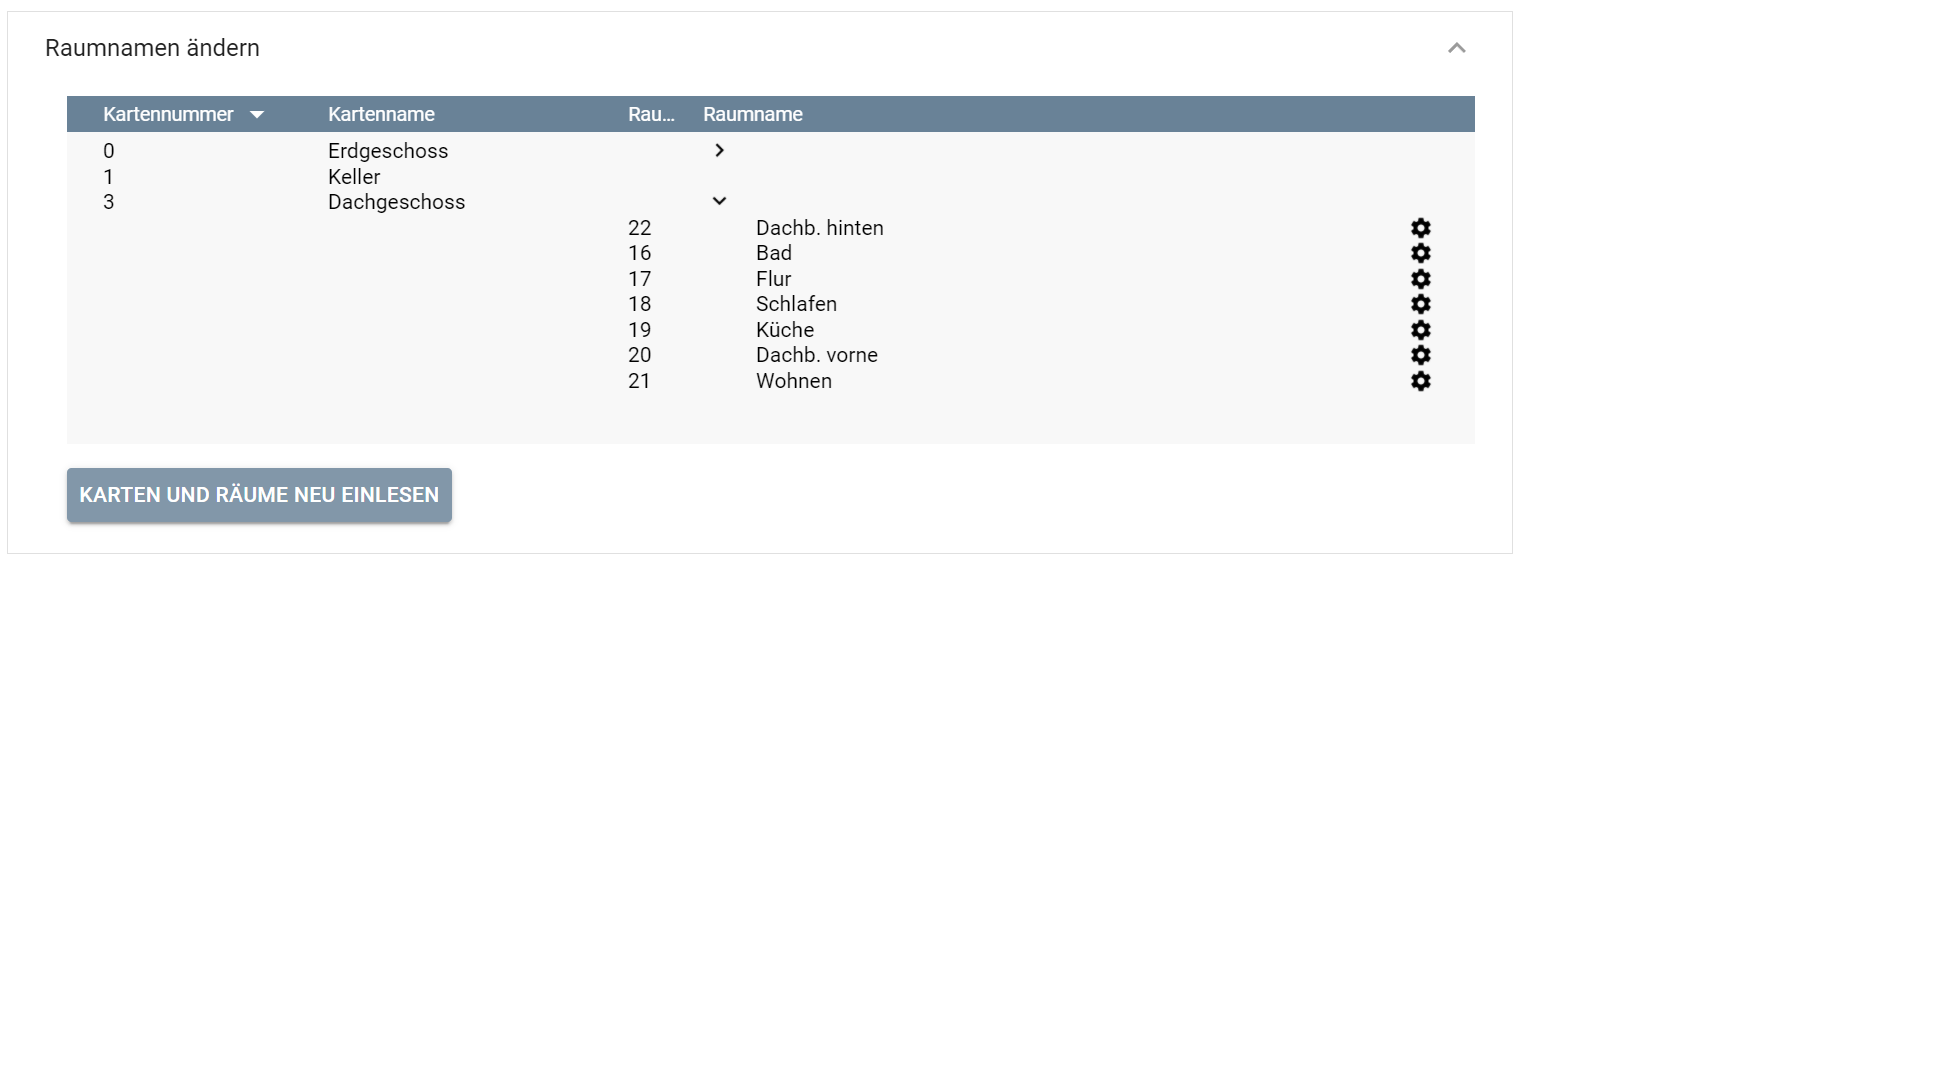
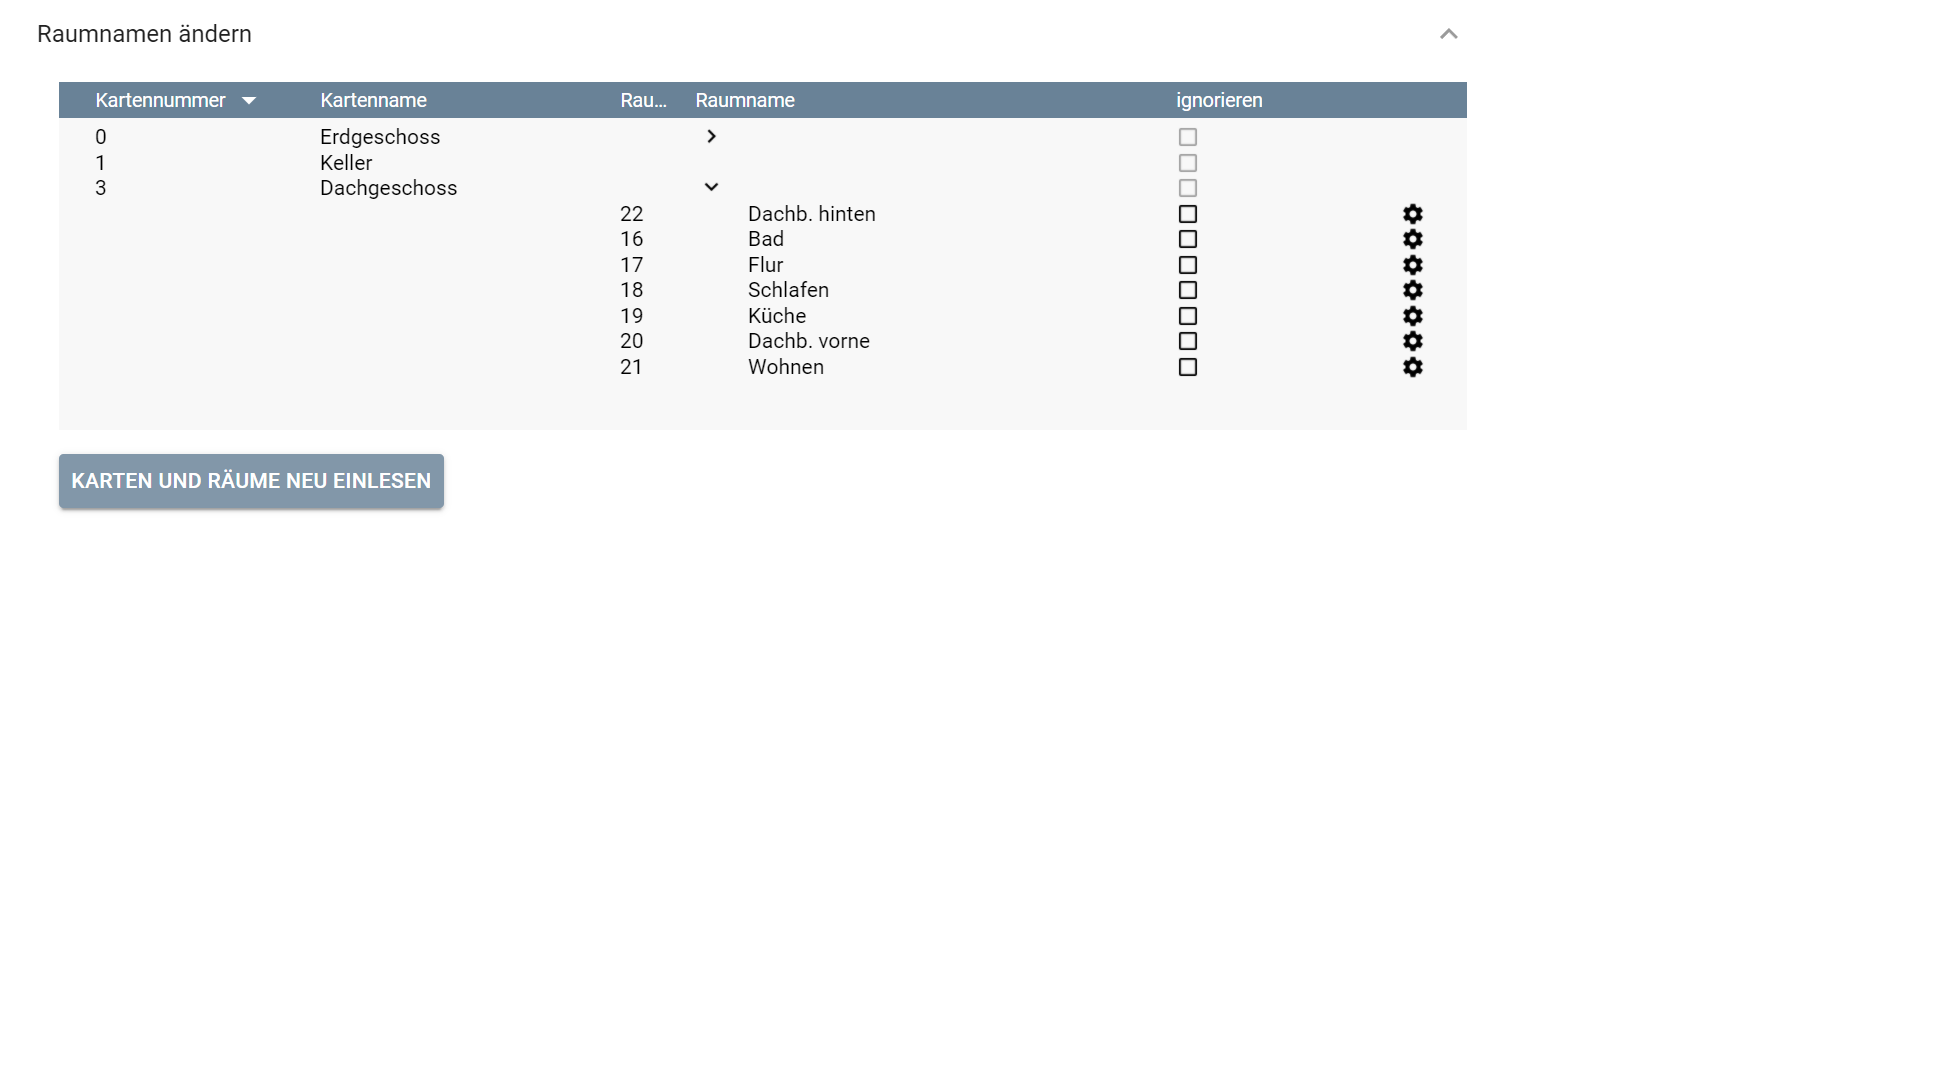
2.1 build 32 neu: - der Server von dem der Token geholt wird, kann nun eingestellt werden (bislang fix 'de') - rudimentäre Unterstützung des S1

diff --git a/Roborock Robot/module.php b/Roborock Robot/module.php
@@ -58,6 +58,7 @@ class Roborock extends IPSModule
     private const PROPERTY_REMOTE               = 'remote';
     private const PROPERTY_UPDATE_INTERVAL      = 'UpdateInterval';
     private const PROPERTY_CLEANING_ORDER       = 'CleaningOrder';
+    private const PROPERTY_SERVER               = 'Server';
 
     private const PROFILE_COMMAND         = 'Roborock.Command';
     private const PROFILE_ERRORCODE       = 'Roborock.Errorcode';
@@ -265,6 +266,8 @@ class Roborock extends IPSModule
 
         $this->RegisterPropertyString(self::PROPERTY_XIAOMI_USER, '');
         $this->RegisterPropertyString(self::PROPERTY_XIAOMI_PASSWORD, '');
+
+        $this->RegisterPropertyString(self::PROPERTY_SERVER, 'de');
 
         // register update timer
         $this->RegisterPropertyInteger(self::PROPERTY_UPDATE_INTERVAL, 60);
@@ -2361,13 +2364,6 @@ class Roborock extends IPSModule
                 'caption' => 'Password'
             ],
             [
-                'name'    => self::PROPERTY_UPDATE_INTERVAL,
-                'type'    => 'NumberSpinner',
-                'caption' => 'Update Interval Roborock',
-                'suffix'  => 'Seconds',
-                'minimum' => 0
-            ],
-            [
                 'type'    => 'ExpansionPanel',
                 'caption' => 'Optional Status Variables',
                 'items'   => [
@@ -2693,6 +2689,24 @@ class Roborock extends IPSModule
                     ]
                 ]
             ],
+            [
+                'type'    => 'ExpansionPanel',
+                'caption' => 'Expert Parameters',
+                'items'   => [
+                    [
+                        'name'    => self::PROPERTY_UPDATE_INTERVAL,
+                        'type'    => 'NumberSpinner',
+                        'caption' => 'Update Interval Roborock',
+                        'suffix'  => 'Seconds',
+                        'minimum' => 0
+                    ],
+                    [
+                        'name'    => self::PROPERTY_SERVER,
+                        'type'    => 'ValidationTextBox',
+                        'caption' => 'Server'
+                    ]
+                ]
+            ],
         ];
     }
 
@@ -2988,7 +3002,7 @@ class Roborock extends IPSModule
                     self::FF_COL_ROOMID            => $room['roomID'],
                     self::FF_COL_ROOMTEXTREFERENCE => $room['referenceID'],
                     self::FF_COL_ROOMNAME          => $RoomNames[$room['referenceID']] ?? $room['roomName'],
-                    self::FF_COL_IGNORE_ROOM       => $room['IgnoreRoom']??false,
+                    self::FF_COL_IGNORE_ROOM       => $room['IgnoreRoom'] ?? false,
                     'editable'                     => true
                 ];
             }
@@ -3443,7 +3457,10 @@ EOF;
             return [];
         }
 
-        $server = 'de';
+        $server = $this->ReadPropertyString(self::PROPERTY_SERVER);
+        if ($server !== ''){
+            $server .= '.';
+        }
 
         $headers = [
             'Content-Type: application/x-www-form-urlencoded',
@@ -3466,7 +3483,7 @@ EOF;
         $body = $this->generateSignature($loginAccountData['ssecurity'], $params, $path);
         $body = http_build_query($body);
 
-        $url = 'https://' . $server . '.api.io.mi.com/app' . $path;
+        $url = 'https://' . $server . 'api.io.mi.com/app' . $path;
         $ch  = curl_init($url);
 
         curl_setopt($ch, CURLOPT_RETURNTRANSFER, true);
@@ -3600,7 +3617,8 @@ EOF;
         }
 
         if ($this->ReadPropertyBoolean(self::PROPERTY_CLEANING_ORDER)) {
-            $this->UpdateAttributeMapsListWithRooms($rooms);
+            $this->UpdateAttributeMapsListWithRooms([]);
+            //$this->UpdateAttributeMapsListWithRooms($rooms);
         }
 
         return $data;

diff --git a/Roborock Robot/roborock_vacuum.php b/Roborock Robot/roborock_vacuum.php
@@ -57,12 +57,20 @@ class Fanpower extends stdClass
     public const GENTLE   = 'Gentle';
     public const SILENT   = 'Silent';
     public const STANDARD = 'Standard';
+    public const MEDIUM = 'Medium';
     public const TURBO    = 'Turbo';
     public const MAXIMUM  = 'Max.';
 
     public const V1 = [
         self::SILENT   => 38,
         self::STANDARD => 60,
+    ];
+
+    public const S1 = [
+        self::SILENT   => 101, //leise
+        self::STANDARD => 102, //normal
+        self::MEDIUM    => 103, //medium
+        self::TURBO  => 104, //Turbo
     ];
 
     public const V2 = [
@@ -102,6 +110,7 @@ class roborock_vacuum
 
     public const DEVICELIST = [
         'roborock.vacuum'     => 'Roborock Generic Vacuum Cleaner',
+        'roborock.vacuum.m1s'  => 'Roborock S1',
         'roborock.vacuum.s5'  => 'Roborock S5',
         'roborock.vacuum.s5e' => 'Roborock S5 Max',
         'roborock.vacuum.s6'  => 'Roborock S6',
@@ -123,6 +132,19 @@ class roborock_vacuum
         return explode('_', $classname)[2] ?? 'generic';
     }
 }
+class roborock_vacuum_m1s extends roborock_vacuum //S1
+{
+    public const CONSUMABLES = [
+    ];
+
+    public const FANPOWER = [
+        Fanpower::SILENT   => 101, //leise
+        Fanpower::STANDARD => 102, //normal
+        Fanpower::TURBO    => 103, //Turbo
+        Fanpower::MAXIMUM  => 104, //Max.
+    ];
+}
+
 class roborock_vacuum_s5 extends roborock_vacuum
 {
     public const CONSUMABLES = [
